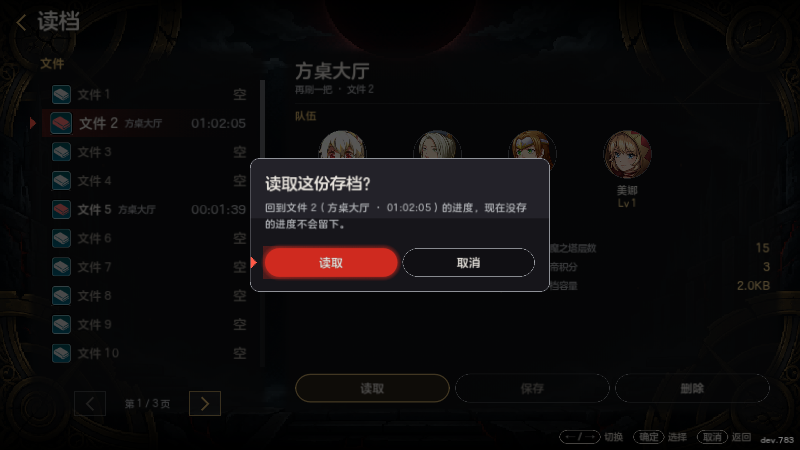
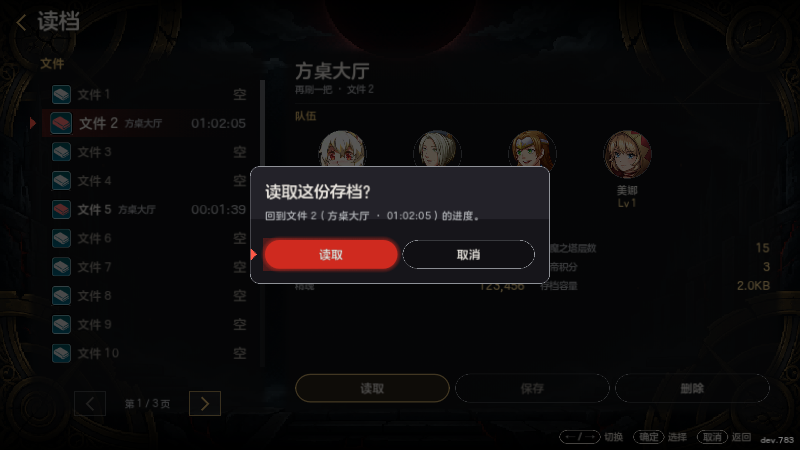
T292 返修：存档模式读档改橙边停「取消」、写清没存的进度会丢；交付单补经验规则说明
执行者: cc
核查: 待审查

Changed region(s): [[0.3125, 0.3422, 0.6875, 0.6533]]

diff --git a/00_项目管理/交付/luiluu_cc-t292-ui-card-j.md b/00_项目管理/交付/luiluu_cc-t292-ui-card-j.md
@@ -8,23 +8,23 @@
 ## 2026-11-20 【cc·T292·未经审查】新界面卡 J：存读档、整队、角色仓库新布局（dev.待定）
 
 - 依据：私密设计仓 T254 剩余页细节设计第〇节、3.0「通用小件」、3.2 存读档、3.3 整队、3.4 角色仓库、文末实现卡表「卡 J」行；卡 I 通用件（统一确认弹窗 XSkinConfirm、页内页签 XSkinInnerTabs、小标 XSkinTag、XSkinList 的 tags／empty_center）只用不改。稿末 5AB-2（整队去掉指令窗）、5AB-6（名单不显示 TP）Kyo 未回，按稿里默认做。
-- 存读档（`ui/save_scene.gd`＋新 `ui/skin/skin_save_page.gd`，XSkinTemplatePage 手动用法、不画环）：左列表（x 40、宽 392、行高 46：图标、「文件 N」、小字地点、行尾游戏时间；空格变灰写「空」；校验失败行尾「存档校验失败」；天启篇选过线的档名字后一枚本线颜色小标）；右大牌（大标题＝地点＋「最近存的」小标、小字＝游戏名·文件号、「队伍」5 个头像圆 76＋名字＋Lv、「这一档」两列六项、天启篇加「天启之路」一行；空格正中「空」＋一句；20:9 右牌变宽）；右牌底三枚按钮读取／保存／删除，能不能点照旧。键盘：确定＝当前那枚（默认读档在「读取」、存档在「保存」，← / → 换），**X＝删除**；触屏直接点按钮。确认一律走统一确认弹窗：读取灰边停「读取」；覆盖、删除橙边、**光标停「取消」**，后果一句写清是哪一档；校验失败读不了的提示变成只有「知道了」的同款弹窗。
+- 存读档（`ui/save_scene.gd`＋新 `ui/skin/skin_save_page.gd`，XSkinTemplatePage 手动用法、不画环）：左列表（x 40、宽 392、行高 46：图标、「文件 N」、小字地点、行尾游戏时间；空格变灰写「空」；校验失败行尾「存档校验失败」；天启篇选过线的档名字后一枚本线颜色小标）；右大牌（大标题＝地点＋「最近存的」小标、小字＝游戏名·文件号、「队伍」5 个头像圆 76＋名字＋Lv、「这一档」两列六项、天启篇加「天启之路」一行；空格正中「空」＋一句；20:9 右牌变宽）；右牌底三枚按钮读取／保存／删除，能不能点照旧。键盘：确定＝当前那枚（默认读档在「读取」、存档在「保存」，← / → 换），**X＝删除**；触屏直接点按钮。确认一律走统一确认弹窗：标题进来读档灰边停「读取」；**游戏里（存档模式）读档、覆盖、删除橙边、光标停「取消」**（存档模式读档会丢掉没存的进度，协调返修定），后果一句写清是哪一档；校验失败读不了的提示变成只有「知道了」的同款弹窗。
 - 读、存、删、确认、系统音全部还是 XSaveScene 原来的代码（新页只把按键翻成旧页的 act／_phase／confirm_index，最后都走 `_perform` → XSave）；专项比对：同一份状态、同一秒里旧页存一格、新页存另一格，明文 .json 逐字节相同，封存 .ksv 解开后逐字节相同。
 - 标题「旧的回忆」：`entry.gd` 打开读档页时传 `use_skin`（天启篇新标题且新皮肤＝真，重制版旧标题＝假，O-467）；只改了 `entry.gd` 一行（`_choose_save` 里 `page.use_skin = XTianqiTitle.available() and XTianqiTitle.skin_on()`）。标题进来不画页签条，横屏铺满照开局页放宽门（request_wide force）。
 - 整队（`ui/party_scene.gd`＋新 `ui/skin/skin_party_page.gd`）：去掉指令窗，进页光标就在出战位（mode＝slot、cmd＝整队）；上排 5 张格子牌（格号、像素小人、名字、Lv；空位虚线框「＋ 空位」；首位领袖角色「领队」金标、天启篇第 5 格「助力」灰标；选中红框红底）；下面名单（首行「空出这一格」＝离队；每人头像、名字、「出战 N」「助力」小标、Lv、生命条＋数、魔法条＋数；TP 不显示；放不进这格的变灰带「没开挑战」／「放不进这格」，确定照旧蜂鸣）；右牌（头像、名字、Lv·职业、出战第几格／待命、生命魔法条、「换上后」一句、主按钮「放进第 N 格」）。X＝还原；取消＝完成（出战栏全空／全员阵亡时拦住、蜂鸣、提示一句、留在本页）；Q／E 和旁边换位照旧；天启篇本层元素一行挪到名单标题右边。换人、互换、超强者拦截、完成前刷新技能共享／羁绊／领袖都还是旧代码。
 - 角色仓库（`ui/actor_warehouse.gd`＋新 `ui/skin/skin_actor_warehouse_page.gd`，版型一不画环）：指令窗「存入／取出」→ 列表上方页签「队伍 N」「仓库 N」（Q／E）；名单行同整队；左块选中角色的像素小人＋名字；右牌写「存进仓库后」／「取出来后」会怎样（只写 `XActorWarehouse.deposit／withdraw` 里核对过的事：离开队伍、等级技能装备都留着、在出战栏的会按队伍前 5 人重排；取出回队伍最后、不进出战栏。经验、升级怎么算没核，不写）＋「队伍至少留一个人」；只剩一人、停用角色写原因、按钮变灰；主按钮「存入」／「取出」；取消直接离开。存取规则一行没动。
 - 回退：`XSkinSavePage.ENABLED`、`XSkinPartyPage.ENABLED`、`XSkinActorWarehousePage.ENABLED` 设 false 各自回旧页；西游存档、界面风格选原版、`XUiSkin.ENABLED = false` 都不建新页。
-- 测试：新专项 `tests/xiyou_ui_skin_card_j`（无头 92 项；带窗口 166 项含截图真尺寸断言）：三页门控与回退、标题 use_skin、entry.gd 传参、3.2／3.3／3.4 对应表逐行、按键（确定、← / →、X、Q／E、取消）、触屏、确认弹窗默认钮、存档逐字节比对、校验失败提示；`tests/xiyou_ui_skin_offshot` 的 PAGES 加三页（皮肤关闭对照从此覆盖）；`tests/xiyou_tianqi_e2e`（整队超强者一段）、`tests/xiyou_tianqi_title_flow`（标题读档一段）是天启篇存档、新皮肤开着时按旧按键顺序走的，加了「有新页就按新按法」的分支，旧页路径不动。
+- 测试：新专项 `tests/xiyou_ui_skin_card_j`（无头 95 项；带窗口 173 项含截图真尺寸断言）：三页门控与回退、标题 use_skin、entry.gd 传参、3.2／3.3／3.4 对应表逐行、按键（确定、← / →、X、Q／E、取消）、触屏、确认弹窗默认钮、存档逐字节比对、校验失败提示；`tests/xiyou_ui_skin_offshot` 的 PAGES 加三页（皮肤关闭对照从此覆盖）；`tests/xiyou_tianqi_e2e`（整队超强者一段）、`tests/xiyou_tianqi_title_flow`（标题读档一段）是天启篇存档、新皮肤开着时按旧按键顺序走的，加了「有新页就按新按法」的分支，旧页路径不动。
 - 玩家可见：天启篇里存读档换成左列表右大牌、确定直接读／存、X 删除、覆盖和删除先问一次且光标停在「取消」；整队不再有指令窗，进来直接选格子换人；角色仓库用页签切队伍和仓库，右边写清存进去会怎样。
 - 验证：`选测.py main --list` 列出的 31 项全过（含 event_compare 四份、xiyou_save_page、xiyou_party、xiyou_super_deploy、xiyou_tianqi_e2e、xiyou_tianqi_title_flow 等；e2e、title_flow 改测试后单跑通过）；另跑 `xiyou_party*`、`xiyou_ui_skin*`、`xiyou_actor_warehouse`、`xiyou_tianqi_title*`、`xiyou_save_page`、`xiyou_save_seal`、`xiyou_super_deploy`、`xiyou_tianqi_zhengdao_party` 31 项全过；工具回归全过；皮肤关闭对照（基线 c09536415）40 张全 SAME（含新加三页 × 西游／天启关皮肤 6 张）。
-- 截图：[luiluu_cc-t292-ui-card-j](../归档/交付截图/luiluu_cc-t292-ui-card-j)（窗口直接设 800×450／1000×450 拍、专项断言尺寸；读档、存档模式、空格、读取确认、X 删除确认、覆盖确认、校验失败提示、标题进来、整队、选人、空位、角色仓库、仓库页签、空仓库、字体 130%、旧画法对照）。
+- 截图：[luiluu_cc-t292-ui-card-j](../归档/交付截图/luiluu_cc-t292-ui-card-j)（窗口直接设 800×450／1000×450 拍、专项断言尺寸；读档、存档模式、空格、读取确认、存档模式读取确认（橙边）、X 删除确认、覆盖确认、校验失败提示、标题进来、整队、选人、空位、角色仓库、仓库页签、空仓库、字体 130%、旧画法对照）。
 - 未完成／已知问题：见「没做／偏离」。
 
 ## 文字（玩家可见，新写的都是草稿，待小A 审）
 
 - 页名：「读档」「存档」「整队」（「角色仓库」沿用旧标题）。
 - 存读档：列表标题「文件」；行尾「空」；小标「最近存的」；牌上「队伍」「这一档」「天启之路」；空格小字「按确定把现在的进度存到这里。」「这一格还没有存档。」；按钮字沿用插件（读取／保存／删除）。
-- 存读档弹窗：「读取这份存档？」＋「回到文件 N（地点 · 时间）的进度，现在没存的进度不会留下。」；「覆盖这份存档？」＋「文件 N（…）会被现在的进度换掉，换掉就找不回来。」（校验失败那格：「…会存成现在的进度；原来那份校验失败的文件会改名留着。」）；「删除这份存档？」＋「文件 N（…）会被删掉，删掉就找不回来。」；钮「读取」「覆盖」「删除」「取消」「知道了」；「存档校验失败，无法读取」＋原说明句。
+- 存读档弹窗：「读取这份存档？」＋标题进来「回到文件 N（地点 · 时间）的进度。」／游戏里（存档模式）「回到文件 N（地点 · 时间）的进度。现在没存的进度会丢掉，找不回来。」；「覆盖这份存档？」＋「文件 N（…）会被现在的进度换掉，换掉就找不回来。」（校验失败那格：「…会存成现在的进度；原来那份校验失败的文件会改名留着。」）；「删除这份存档？」＋「文件 N（…）会被删掉，删掉就找不回来。」；钮「读取」「覆盖」「删除」「取消」「知道了」；「存档校验失败，无法读取」＋原说明句。
 - 整队：「第 N 格」「＋ 空位」「领队」「助力」「空出这一格」「出战 N」「没开挑战」「放不进这格」「名单」「待命」「出战第 N 格」「助力位」「生命」「魔法」「换上后」；一句话：「X进第 N 格，Y回到待命。」「X进第 N 格。」「X换到第 N 格，Y换到第 M 格。」「X从第 M 格挪到第 N 格。」「X已经在第 N 格。」「Y离开第 N 格，回到待命。」「第 N 格本来就空着。」「超强者没开挑战，不能出战。」「X放不进第 N 格（超强者上限或助力位规则）。」「按确定给第 N 格选人；Q / E 和旁边换位。」；按钮「给第 N 格选人」「放进第 N 格」「空出第 N 格」；拦住时提示「出战栏至少要有一个活着的人才能离开。」
 - 角色仓库：页签「队伍 N」「仓库 N」；「仓库是空的」「停用」；「存进仓库后」「取出来后」「存入后」「取出后」；「离开队伍；等级、技能、装备都留着，随时能取出来。」「现在在出战栏里：存进去后出战栏按队伍前 5 人重新排。」「回到队伍最后，不进出战栏；要出战去整队里放。」「队伍只剩这一个人，存不进去。」「这个角色停用了，不能存取。」「队伍至少留一个人」。
 - 按键提示：「确定 读取／保存／删除」「← / → 换按钮」「X 删除」「取消 离开」「← / → 切换」「确定 选择」「取消 返回」「确定 选人」「← / → 换格」「Q / E 和旁边换位」「X 还原」「取消 完成」「确定 放进这格」「Q / E 翻页」「取消 回出战位」「Q / E 队伍 / 仓库」「确定 存入／取出」。
@@ -32,7 +32,7 @@
 ## 没做／偏离
 
 - **存读档加了「← / → 换按钮」**：稿只写了「确定＝默认那枚、X＝删除」，那样存档模式下键盘读不了档（旧页操作窗能选「读取」）；为了「旧页的每一项都取得到」，列表上左右换右牌按钮焦点，确定按当前那枚；换行回默认那枚。
-- **覆盖、删除的确认弹窗光标停在「取消」**（照稿）：旧确认窗停在「是」。读取照稿灰边停「读取」。
+- **覆盖、删除的确认弹窗光标停在「取消」**（照稿）：旧确认窗停在「是」。读取：标题进来照稿灰边停「读取」；游戏里（存档模式）读取改成橙边停「取消」（偏离稿，协调返修定：没存的进度会丢）。
 - 整队名单行没用旧页的行走图，用头像（稿：名单头像、格子像素小人）；名单「出战 N」小标的 N 是格号（第 5 格写「助力」）。
 - 整队：出战位上 ↑/↓ 不动（同旧页）；进选人时名单光标沿用上次的位置（旧页同）。名单是一屏 6 行（面板 424 高扣标题、翻页脚），不是稿里设想的更多行：上排出战位占掉 156。
 - 天启篇本层元素一行（旧页出战栏底下）挪到名单标题右边，太长时省略号截断。
@@ -41,7 +41,8 @@
 - 稿的动效（换页淡入、数值闪金）没做，同卡 I：模板页本来没有。
 - 旧画法对照只拍 16:9：旧页只按 1280×720 摆，20:9 窗口是留边。
 - 皮肤关闭对照用 `--base c09536415`（本分支切出点）：本地 main 已到 dev.785，拿它当基线所有页右下角版本号都不同（每张约 92 像素），不是本改动。
-- 存档模式在游戏里读档会丢掉没存的进度，稿把「读取」定成普通确认（灰边、停「读取」），我照做；如果想更稳，可以把「游戏里（存档模式）读档」也改成橙边停「取消」——写在「异议」等定。
+- 已按协调返修改：游戏里（存档模式）读档走橙边、停「取消」，正文写「现在没存的进度会丢掉，找不回来。」；标题进来读档（没有当前进度）照旧灰边停「读取」。新皮肤关着、回退开关关着时旧确认窗照旧。
+- **角色仓库没写经验、升级会怎样，原因**：稿 3.4 角色仓库表最后一行写「经验、升级怎么算，车道照 `actor_warehouse.gd` 和替补经验规则核清再写，核不清就不写」。「替补经验规则」指打完仗谁拿经验：`battle/battle_logic.gd` 发经验时只遍历 `state.members()`（队伍里的人），上场的和天启篇助力位拿满，其余队员拿 `bench_rate`（数据库 `optExtraExp` 开着为 100%，关着为 0）；仓库里的角色不在 `members()` 里，按这段代码打仗不拿经验。没写进右牌是因为只核了战斗经验这一条：别的加经验、加等级的来源（经验丹等物品、事件、宠物——`core/pets.gd` 的 `bonus_actors` 把 `saved_actors` 也算进去——、真气、修炼场等）对仓库角色算不算，本卡没逐个查，写「存进去不长经验」可能不全对。要写的话建议另开小单逐个核这些来源（或问 Kyo 想让玩家知道到哪一层），核清后右牌加一句即可，改的是 `skin_actor_warehouse_page.gd` 的 `card_data`。
 
 ## 交接板
 
@@ -61,4 +62,5 @@
 
 - 443b907e2 WIP：三页新布局
 - f27f16e64 WIP：专项、offshot 加三页、按钮焦点和格子底
-- （本次）校验失败覆盖文案、两条旧端到端测试加新页分支、截图、交付单
+- 83f6f7fdd 校验失败覆盖文案、两条旧端到端测试加新页分支、截图、交付单；85e7456bc 补专项 .gd.uid
+- （本次）协调返修：存档模式读档改橙边停「取消」＋文案；交付单补经验规则说明
